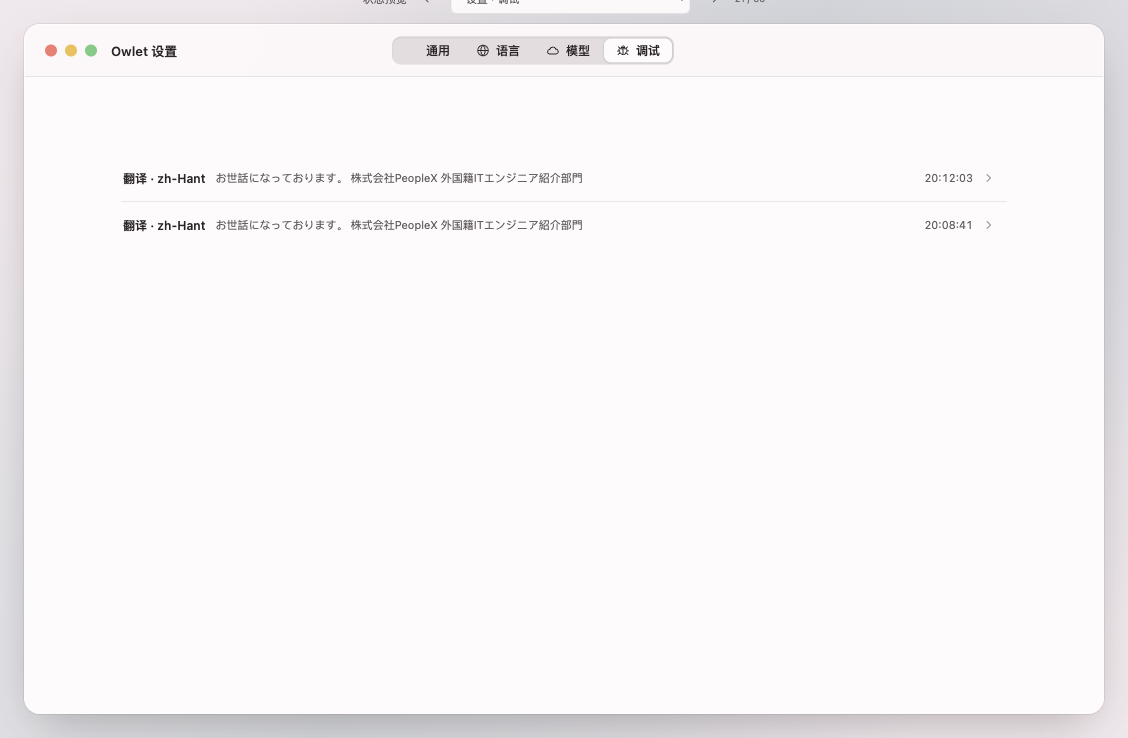
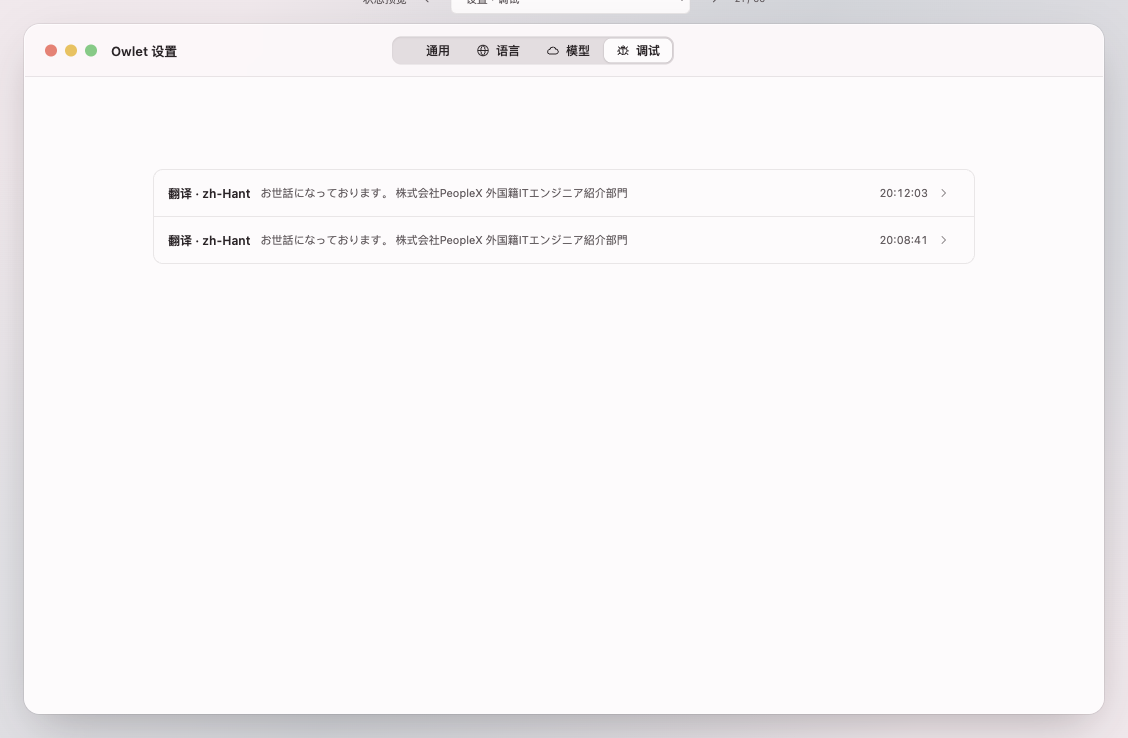
feat(debug): the whole row toggles, and the chevron sits at the trailing edge
`DisclosureGroup` 会把它的三角放在前缘（行内容开始的地方），而这里的行是以内容和时间为先的，
所以换成：整行是一个 plain `Button`，行尾放一个 `chevron.right`，展开时旋转 90°，展开动画用
`withAnimation`。点行内任意位置都能开合，图标只是指示状态与落点。

diff --git a/Owlet/Settings/DebugSettingsPane.swift b/Owlet/Settings/DebugSettingsPane.swift
@@ -15,12 +15,22 @@ struct DebugSettingsPane: View {
                     "还没有记录", systemImage: "ladybug",
                     description: Text("发一次翻译或润色后会出现在这里。"))
             } else {
-                List {
-                    ForEach(log.exchanges) { exchange in
-                        DisclosureGroup(isExpanded: isExpanded(exchange)) {
-                            detail(exchange)
+                // `List(_:)` over the identified collection: no explicit `ForEach` needed.
+                List(log.exchanges) { exchange in
+                    VStack(alignment: .leading, spacing: 0) {
+                        // The whole row is the control, and the chevron at its trailing edge shows which
+                        // way it goes. `DisclosureGroup` would put its triangle on the leading edge,
+                        // where the row's own content starts.
+                        Button {
+                            toggle(exchange)
                         } label: {
                             summary(exchange)
+                        }
+                        .buttonStyle(.plain)
+                        .accessibilityLabel(exchange.title)
+                        .accessibilityValue(isExpandedNow(exchange) ? "已展开" : "已收起")
+                        if isExpandedNow(exchange) {
+                            detail(exchange).padding(.bottom, 10)
                         }
                     }
                 }
@@ -30,7 +40,7 @@ struct DebugSettingsPane: View {
     }
 
     /// What was asked for, the text that was sent, and when. The text is cut to one line: the whole
-    /// point of the row is to be scannable, and the disclosure opens the rest.
+    /// point of the row is to be scannable, and the chevron opens the rest.
     private func summary(_ exchange: DebugExchange) -> some View {
         HStack(spacing: 10) {
             Text(exchange.title)
@@ -45,7 +55,13 @@ struct DebugSettingsPane: View {
                 .font(.system(size: 11))
                 .foregroundStyle(.secondary)
                 .monospacedDigit()
+            Image(systemName: "chevron.right")
+                .font(.system(size: 11, weight: .semibold))
+                .foregroundStyle(.secondary)
+                .rotationEffect(.degrees(isExpandedNow(exchange) ? 90 : 0))
+                .accessibilityHidden(true)
         }
+        .contentShape(Rectangle())
     }
 
     /// The captured content itself. No nested scroll view: the list already scrolls, and nesting a
@@ -84,15 +100,18 @@ struct DebugSettingsPane: View {
         }
     }
 
-    private func isExpanded(_ exchange: DebugExchange) -> Binding<Bool> {
-        Binding(
-            get: { expanded.contains(exchange.id) },
-            set: { open in
-                if open {
-                    expanded.insert(exchange.id)
-                } else {
-                    expanded.remove(exchange.id)
-                }
-            })
+    /// Animated, as a disclosure change is expected to be.
+    private func toggle(_ exchange: DebugExchange) {
+        withAnimation {
+            if expanded.contains(exchange.id) {
+                expanded.remove(exchange.id)
+            } else {
+                expanded.insert(exchange.id)
+            }
+        }
+    }
+
+    private func isExpandedNow(_ exchange: DebugExchange) -> Bool {
+        expanded.contains(exchange.id)
     }
 }

diff --git a/design/index.html b/design/index.html
@@ -49,9 +49,10 @@ kbd{font:11px -apple-system,sans-serif;color:inherit;border:1px solid currentCol
 .settings-tabs button svg{width:14px;height:14px}
 .settings-tabs button[aria-selected=true]{background:var(--paper);font-weight:600;box-shadow:0 1px 2px oklch(30% .01 350/.18),0 0 0 .5px oklch(30% .01 350/.07)}
 /* Debug pane: a list of captured exchanges; the trailing chevron opens one. */
-.debug-entry{border-bottom:1px solid var(--line);padding:0 2px}
+.debug-list{border:1px solid var(--line);border-radius:10px;background:var(--paper);overflow:hidden}
+.debug-entry{border-bottom:1px solid var(--line);padding:0 14px}
 .debug-entry:last-child{border-bottom:0}
-.debug-head{display:flex;align-items:center;gap:10px;padding:12px 0}
+.debug-head{display:flex;align-items:center;gap:10px;padding:12px 0;cursor:pointer}
 .debug-head .name{font-size:12px;font-weight:600;flex:none}
 .debug-head .text{font-size:11px;color:var(--muted);white-space:nowrap;overflow:hidden;text-overflow:ellipsis;flex:1;min-width:0}
 .debug-head .time{font-size:11px;color:var(--muted);font-variant-numeric:tabular-nums;flex:none}
@@ -741,11 +742,12 @@ function promptSectionsHTML(){
    +`</div>`).join('')
 ;
 }
+function setDebugRow(i){state='settings-debug'+(i<0?'':'open');preview(i<0?'settings-debug':'settings-debug-open')}
 function debugPaneHTML(){
   const open=cfg().openRow;
   if(cfg().debugEmpty)return `<div class="body" id="body"><div class="empty">${icon('ladybug')}<h2>还没有记录</h2><p>发一次翻译或润色后会出现在这里。</p></div></div>`;
-  return `<div class="body" id="body"><div class="debug-list">`
-   +DEBUG_ENTRIES.map((e,i)=>`<div class="debug-entry"><div class="debug-head"><span class="name">${e.title}</span><span class="text">${esc(e.text)}</span><span class="time">${e.time}</span><button class="disclose" aria-expanded="${open===i}" aria-label="展开这条记录">${icon('chevron')}</button></div>`
+  return `<div class="body" id="body"><div class="form" style="padding-top:14px"><div class="debug-list">`
+   +DEBUG_ENTRIES.map((e,i)=>`<div class="debug-entry"><div class="debug-head" onclick="setDebugRow(${open===i?-1:i})" role="button" tabindex="0" aria-expanded="${open===i}"><span class="name">${e.title}</span><span class="text">${esc(e.text)}</span><span class="time">${e.time}</span><button class="disclose" aria-expanded="${open===i}" aria-label="展开这条记录">${icon('chevron')}</button></div>`
      +(open===i?`<div class="debug-body">`
        +(e.failure?`<p class="debug-failure">${icon('warn')}${esc(e.failure)}</p>`:'')
        +(e.diff?`<pre class="debug-diff">${esc(e.diff)}</pre>`:'')
@@ -754,7 +756,7 @@ function debugPaneHTML(){
        +`<div class="debug-block"><h4>请求体</h4><pre>${esc(DEBUG_REQUEST)}</pre></div>`
        +`<div class="formrow"><span></span><span class="field"><button class="glass-btn">复制这条记录</button></span></div></div>`:'')
      +`</div>`).join('')
-   +`</div></div>`;
+   +`</div></div></div>`;
 }
 function settingsPaneHTML(){
   const pane=cfg().pane||'general';

diff --git a/docs/liquid-glass-components.md b/docs/liquid-glass-components.md
@@ -85,7 +85,7 @@
 | `settings-general.png` | 独立设置窗口：`Settings` scene 的标题栏 + `TabView` 标签页切换器（不可自定义、始终可见）· 每页 inset grouped `Form` 的多个 `Section`；通用页含「文本处理」分组（翻译显示方式）|
 | `settings-language-empty.png` / `settings-language-rows.png` | 语言页：「语言」分组（已选语言逐行 `LabeledContent` + 删除按钮，`添加语言` 才展示完整系统清单）+「目标语言」分组（兜底目标 `Picker(.menu)`、一行一源语言的映射、`添加映射`） |
 | `settings-model.png` / `settings-model-openai.png` / `settings-model-failed.png` / `settings-model-prompts.png` / `settings-model-prompts-customized.png` | 模型页：「服务」分组（服务商、Base URL、`SecureField`）、「模型」分组（模型名称、思考强度），以及两组 System Prompt 编辑器；模型列表失败时在名称行下就地提示与 `重试`。编辑器分组标题的行尾是 `默认` 标记，改过之后换成小方块 `恢复默认` 按钮 |
-| `settings-debug.png` / `settings-debug-open.png` / `settings-debug-empty.png` | 调试页：`List(.inset)`，每次交换一行（操作名、原文摘要 `.lineLimit(1)`、时间、行尾 `DisclosureGroup` 箭头）；展开后是失败行、原文差异与三段可选中原文；没有记录时用 `ContentUnavailableView` |
+| `settings-debug.png` / `settings-debug-open.png` / `settings-debug-empty.png` | 调试页：`List(.inset)`，每次交换一行（操作名、原文摘要 `.lineLimit(1)`、时间、行尾展开箭头）；整行可点，展开后是失败行、原文差异与三段可选中原文；没有记录时用 `ContentUnavailableView` |
 | `workspace-auto.png` / `workspace-target-pinned.png` | 工具栏的 `Picker(.menu)`：`自动（简体中文）` 与显式语言两态；结果标签沿用解析出的语言名 |
 | `loading.png` / `polish-loading.png` / `direct-loading.png` | 紧凑玻璃条 · `ProgressView` · 状态文字 · 玻璃停止按钮；Esc 取消 |
 | `error.png` / `format-error.png` / `cancelled.png` / `permission.png` / `unconfigured.png` / `selection-error.png` / `unwritten.png` | 紧凑玻璃条 · 一行说明 · 一个恢复按钮（服务设置／提示词设置／权限设置／手动输入／配置服务／复制结果／重新处理），失败态另有重试图标按钮 |
